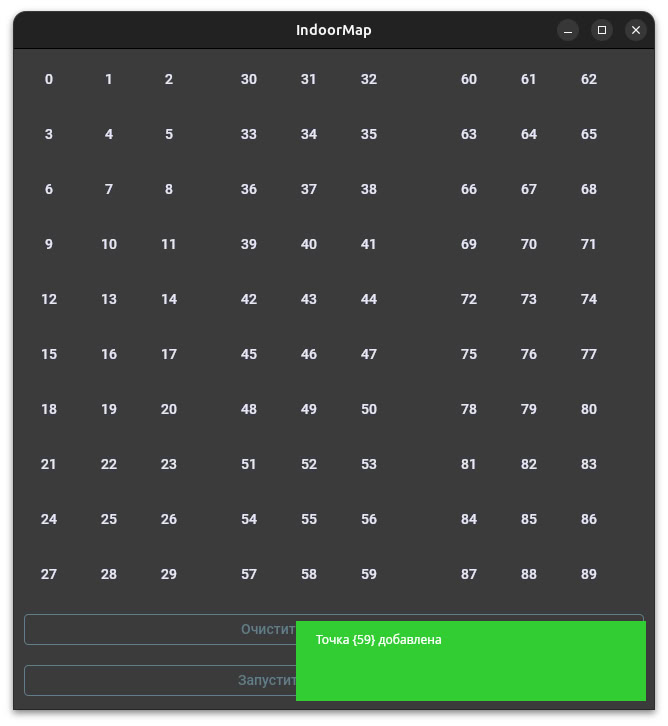
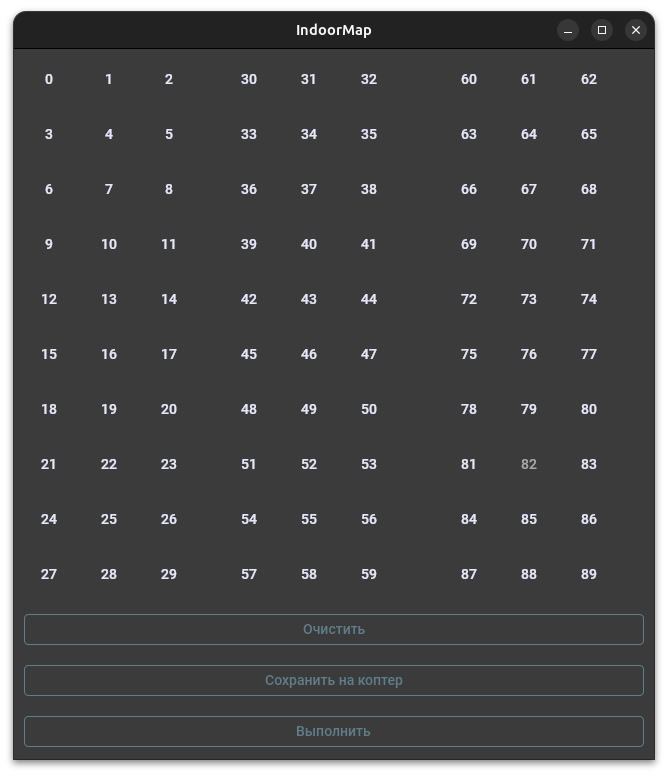
doc: update project status

diff --git a/src/IndoorMap/ViewModels/FlightMissionViewModel.cs b/src/IndoorMap/ViewModels/FlightMissionViewModel.cs
@@ -125,7 +125,7 @@ namespace IndoorMap.ViewModels
                 {
                     case ButtonResult.OK:
                         var arucoMarker = r.Parameters[nameof(ArucoMarker)] as ArucoMarker;
-                        _notificationService.NotifyAboutSuccess("Точка {" + arucoMarker.Number + "} добавлена");
+                        _notificationService.NotifyAboutSuccess("Точка " + arucoMarker.Number + " добавлена");
                         AddPointToFile(arucoMarker);
                         break;
                 }
